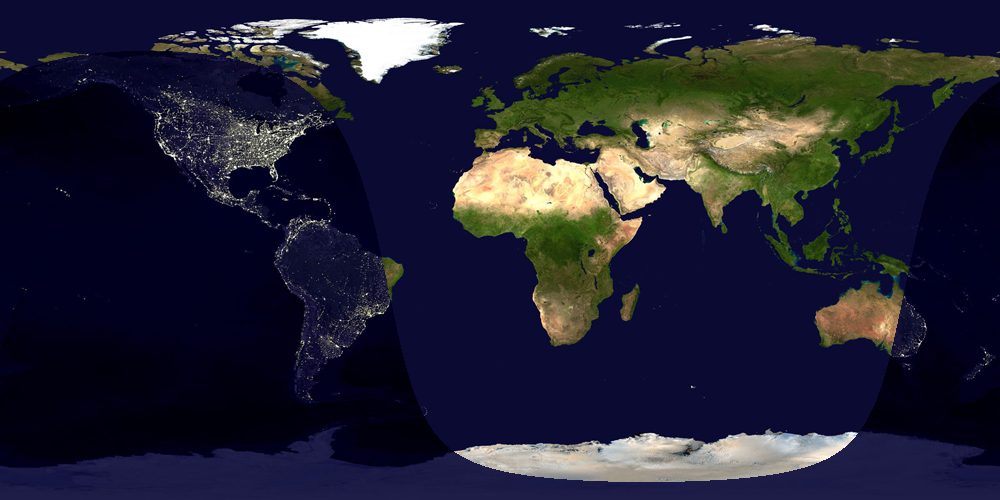
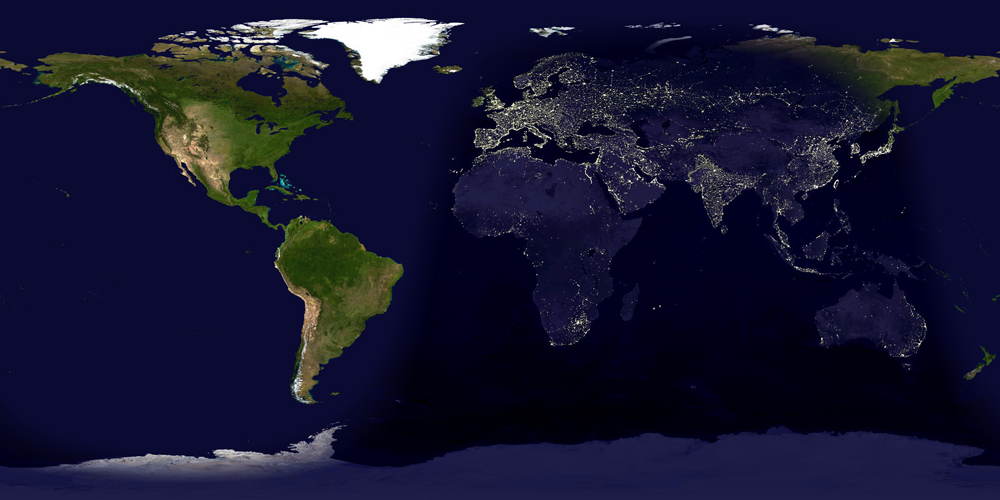
library for android improved

diff --git a/src/com/ozzyboshi/worldmap/awt/WorldMapAwtDraw.java b/src/com/ozzyboshi/worldmap/awt/WorldMapAwtDraw.java
@@ -1,5 +1,6 @@
 package com.ozzyboshi.worldmap.awt;
 
+import java.awt.Color;
 import java.awt.image.BufferedImage;
 import java.io.File;
 import java.io.IOException;
@@ -9,7 +10,7 @@ import javax.imageio.ImageIO;
 import com.ozzyboshi.worldmap.ImageSizeDifferentException;
 import com.ozzyboshi.worldmap.WorldMapDrawable;
 
-public class WorldMapAwtDraw implements WorldMapDrawable<Object> {
+public class WorldMapAwtDraw implements WorldMapDrawable<Object,Object> {
 	
 	private BufferedImage imgDay;
 	private BufferedImage imgNight;
@@ -19,7 +20,7 @@ public class WorldMapAwtDraw implements WorldMapDrawable<Object> {
 
 	// Read png files from filesystem and checks that they have the same size
 	@Override
-	public void readFromFiles() {
+	public void readFromFiles() throws ImageSizeDifferentException {
 		try {
 			imgDay = ImageIO.read(dayImageFile);
 		} catch (IOException e) {
@@ -33,7 +34,7 @@ public class WorldMapAwtDraw implements WorldMapDrawable<Object> {
 			throw new RuntimeException(e);
 		}
 		if (imgDay.getWidth()!=imgNight.getWidth() || imgDay.getWidth()!=imgNight.getWidth()) {
-			//throw new ImageSizeDifferentException();
+			throw new ImageSizeDifferentException();
 		}
 	}
 	
@@ -45,14 +46,14 @@ public class WorldMapAwtDraw implements WorldMapDrawable<Object> {
 
 	//Sets the day png file path
 	@Override
-	public void setDayImageFile(File dayImageFile) {
-		this.dayImageFile = dayImageFile;
+	public void setDayImageFile(Object dayImageFile) {
+		this.dayImageFile = (File)dayImageFile;
 	}
 
 	//Sets the night png file path
 	@Override
-	public void setNightImageFile(File nightImageFile) {
-		this.nightImageFile = nightImageFile;
+	public void setNightImageFile(Object nightImageFile) {
+		this.nightImageFile = (File)nightImageFile;
 	}
 
 	@Override
@@ -86,6 +87,10 @@ public class WorldMapAwtDraw implements WorldMapDrawable<Object> {
 		System.out.println(this.destImg);
 		return this.destImg;
 	}
-	
-	
+
+	@Override
+	public int getRGB(int r, int g, int b) {
+		Color col = new Color (r,g,b);
+		return col.getRGB();
+	}
 }

diff --git a/src/com/ozzyboshi/worldmap/WorldMapMaker.java b/src/com/ozzyboshi/worldmap/WorldMapMaker.java
@@ -33,7 +33,7 @@ import java.util.TimeZone;
 
 public class WorldMapMaker {
 	
-	private WorldMapDrawable<?> drawable;
+	private WorldMapDrawable<?, ?> drawable;
 	private final double M_PI = Math.PI;
 	
 	private double time;
@@ -45,7 +45,7 @@ public class WorldMapMaker {
 	private boolean drawDuskAndDawn ;
 	private boolean printBlackPixelAtNight;
 	
-	public WorldMapMaker(WorldMapDrawable<?> drawable, boolean drawDuskAndDawn,boolean printBlackPixelAtNight) {
+	public WorldMapMaker(WorldMapDrawable<?, ?> drawable, boolean drawDuskAndDawn,boolean printBlackPixelAtNight) throws ImageSizeDifferentException {
 		this.drawable=drawable ;
 		this.drawable.readFromFiles();
 		this.drawDuskAndDawn = drawDuskAndDawn;
@@ -165,9 +165,10 @@ public class WorldMapMaker {
 	        		colors.add(color2);
 	        		
 	        		/*Color color = mixColors(colors);*/
+	        		int[] sharedColors = mixColors(colors);
 	        		
 	        		/*int rgb = color.getRGB();*/
-	        		int rgb=0;
+	        		int rgb=this.drawable.getRGB(sharedColors[0], sharedColors[1], sharedColors[2]);
 	        		drawable.setDestinationRgbAt(u,v,rgb);
 	            }
 	        	
@@ -203,7 +204,7 @@ public class WorldMapMaker {
 		time=time/24;
 	}
 	
-	/*private Color mixColors(ArrayList<MixColor> colors) {
+	private int[] mixColors(ArrayList<MixColor> colors) {
         double shares = 0;
         int r = 0;
         int g = 0;
@@ -226,6 +227,6 @@ public class WorldMapMaker {
         g = (int) Math.round(g / shares);
         b = (int) Math.round(b / shares);
         
-        return new Color(r,g,b);
-    }*/
+        return new int[] {r,g,b};
+    }
 }

diff --git a/src/com/ozzyboshi/worldmap/awt/test.java b/src/com/ozzyboshi/worldmap/awt/test.java
@@ -17,17 +17,20 @@ public class test {
 	 */
 	public static void main(String[] args) {
 		// TODO Auto-generated method stub
-		WorldMapAwtDraw image = new WorldMapAwtDraw();
+		WorldMapDrawable<Object, Object> image = new WorldMapAwtDraw();
 		image.setDayImageFile(new File("images/day.png"));
 		image.setNightImageFile(new File("images/night.png"));
 		try {
-			WorldMapMaker maker = new WorldMapMaker(image, false, false);
+			WorldMapMaker maker = new WorldMapMaker(image, true, false);
 			maker.BuildMapFromUnixTimestamp(System.currentTimeMillis()/1000L);
-			BufferedImage output = image.getDestination();
+			BufferedImage output = (BufferedImage) image.getDestination();
 			System.out.println(output);
-			ImageIO.write(output, "PNG", new File("images/awtoutput.png"));
+			ImageIO.write(output, "PNG", new File("images/awtoutput2.png"));
 		} catch (IOException e) {
 			// TODO Auto-generated catch block
+			e.printStackTrace();
+		}
+		catch (ImageSizeDifferentException e) {
 			e.printStackTrace();
 		}
 		

diff --git a/src/com/ozzyboshi/worldmap/WorldMapDrawable.java b/src/com/ozzyboshi/worldmap/WorldMapDrawable.java
@@ -1,18 +1,16 @@
 package com.ozzyboshi.worldmap;
 
-import java.io.File;
-import java.io.IOException;
-
-public interface WorldMapDrawable <T> {
-	public void readFromFiles();
-	public void setDayImageFile(File dayImageFile);
-	public void setNightImageFile(File dayImageFile);
+public interface WorldMapDrawable <T,RESOURCE> {
+	public void readFromFiles() throws ImageSizeDifferentException;
+	public void setDayImageFile(RESOURCE dayImageFile);
+	public void setNightImageFile(RESOURCE dayImageFile);
 	public void createDestinationImage();
 	public int getWidth();
 	public int getHeight();
 	public int getDayRgbAt(int x,int y);
 	public int getNightRgbAt(int x,int y);
 	public void setDestinationRgbAt(int x,int y,int rgb);
+	public int getRGB(int r,int g,int b);
 	
 	public T getDestination();
 		
